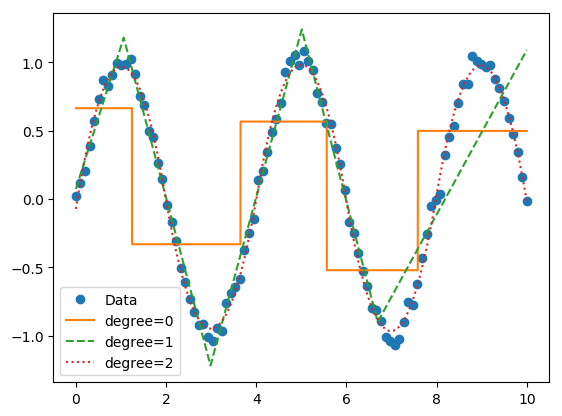
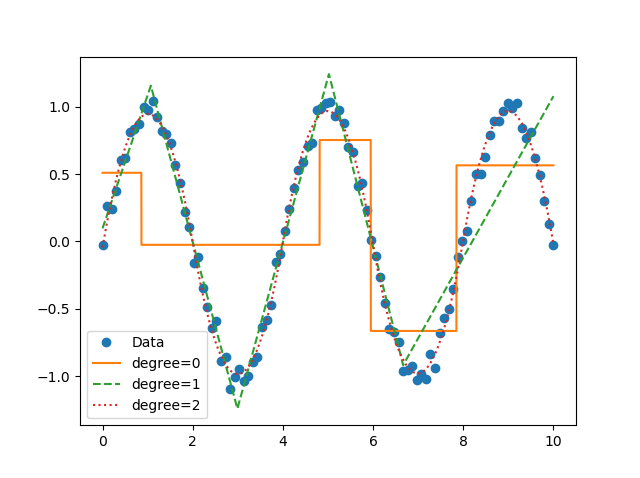
update piecewise polynomial plot

diff --git a/examples/sineWave_degrees.py b/examples/sineWave_degrees.py
@@ -19,9 +19,9 @@ my_pwlf_1 = pwlf.PiecewiseLinFit(x, y, degree=1)  # default
 my_pwlf_2 = pwlf.PiecewiseLinFit(x, y, degree=2)
 
 # fit the data for four line segments
-res0 = my_pwlf_0.fitfast(5, pop=10)
-res1 = my_pwlf_1.fitfast(5, pop=10)
-res2 = my_pwlf_2.fitfast(5, pop=10)
+res0 = my_pwlf_0.fitfast(5, pop=50)
+res1 = my_pwlf_1.fitfast(5, pop=50)
+res2 = my_pwlf_2.fitfast(5, pop=50)
 
 # predict for the determined points
 xHat = np.linspace(min(x), max(x), num=10000)
